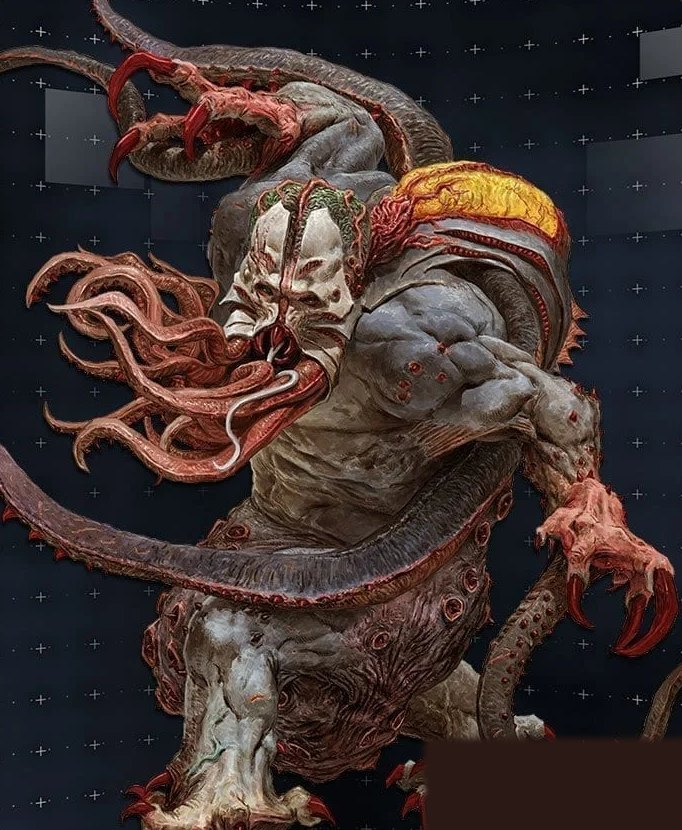
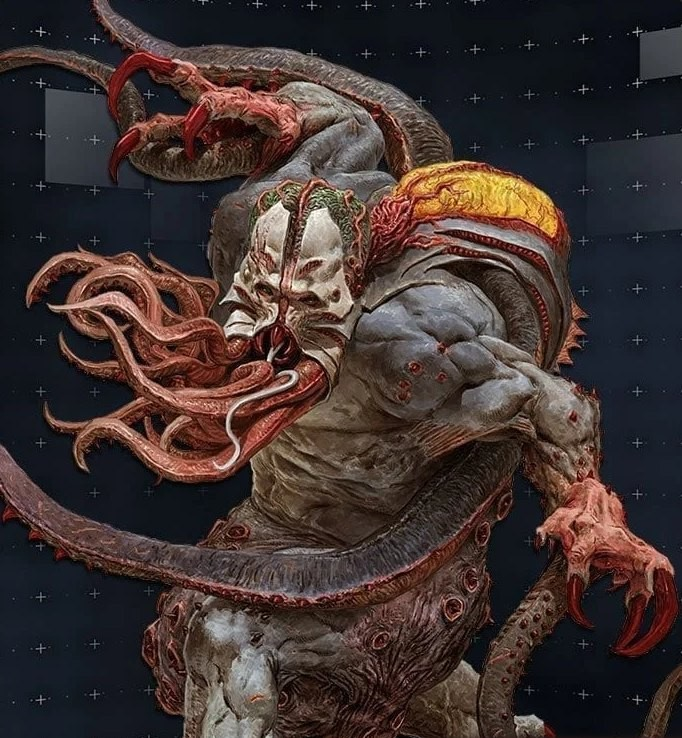
Show only official art in the Invader universe
The Invader carousel and menu still showed the drawn Xenos, and the Biters
had no official picture. The heroes now use the official renders, covering
their panel like the Western heroes, and the Biters use their picture
restored from the French printed card (reduced to 682 px, 256 colours,
143 KB). The Tank render loses its bottom rows, where the rubbed-out logo
left a brown patch.

The 29 drawn Invader illustrations nothing uses any more are deleted, and
the credits (About screen in the 10 languages, README) now name only the
Invader card frames as original.

Lint, typecheck and the 150 tests pass; carousel and menu checked in the
web preview.

diff --git a/src/components/zombie-art.tsx b/src/components/zombie-art.tsx
@@ -229,10 +229,10 @@ const INVADER_EDDIE_ART = {
 /*
  * The pictures of the Invader cards: the official Zombicide Xeno renders (zombicide.com, cut inside their frame, the
  * logo rubbed out) or, for the Xenos the site has no render of, the art of the printed card cut to the picture. They are
- * padded to the shape of the picture window of a card (a Xeno one is portrait, an Abomination one landscape). A subject
- * with no entry here (Biters) keeps its drawn illustration.
+ * padded to the shape of the picture window of a card (a Xeno one is portrait, an Abomination one landscape).
  */
 const INVADER_XENO_ART = {
+  biter: require('../../assets/invader/zombies/biter-official.png'), // restored from the French printed card
   worker: require('../../assets/invader/zombies/xeno-worker-official.jpg'),
   tank: require('../../assets/invader/zombies/xeno-tank-official.jpg'),
   hunter: require('../../assets/invader/zombies/xeno-hunter-official.jpg'),
@@ -285,37 +285,10 @@ const INVADER_BLURRED_FILL: Partial<Record<ArtSubject, { scale: number; down: `$
   dimbutcher: { scale: 1.15, down: '5%' },
 };
 
+// The same artwork is used in the carousel and menu.
 const INVADER_ART: Record<InvaderXeno | InvaderAbomination, ImageSourcePropType> = {
-  ...INVADER_EDDIE_ART,
-  worker: require('../../assets/invader/zombies/xeno-worker-cartoon.jpg'),
-  tank: require('../../assets/invader/zombies/xeno-tank-cartoon.jpg'),
-  hunter: require('../../assets/invader/zombies/xeno-hunter-cartoon.jpg'),
-  spoilerAbomination: require('../../assets/invader/abominations/spoiler-abomination-cartoon.jpg'),
-  drillerWorker: require('../../assets/invader/zombies/driller-worker-cartoon.jpg'),
-  drillerTank: require('../../assets/invader/zombies/driller-tank-cartoon.jpg'),
-  drillerHunter: require('../../assets/invader/zombies/driller-hunter-cartoon.jpg'),
-  drillerAbomination: require('../../assets/invader/abominations/driller-abomination-cartoon.jpg'),
-  drillerBlitzer: require('../../assets/invader/zombies/driller-blitzer-cartoon.jpg'),
-  flinger: require('../../assets/invader/zombies/flinger-cartoon.jpg'),
-  seekerWorker: require('../../assets/invader/zombies/seeker-worker-cartoon.jpg'),
-  xenomoth: require('../../assets/invader/zombies/xenomoth-cartoon.jpg'),
-  biter: require('../../assets/invader/zombies/biter-cartoon.jpg'),
-  juggernaut: require('../../assets/invader/abominations/juggernaut-abomination-cartoon.jpg'),
-  babyface: require('../../assets/invader/abominations/babyface-abomination-cartoon.jpg'),
-  buddyBot: require('../../assets/invader/abominations/buddybot-abomination-cartoon.jpg'),
-  irisSentryGun: require('../../assets/invader/abominations/iris-sentry-gun-abomination-cartoon.jpg'),
-  motherInLaw: require('../../assets/invader/abominations/mother-in-law-abomination-cartoon.jpg'),
-  shadow: require('../../assets/invader/abominations/shadow-abomination-cartoon.jpg'),
-  stomper: require('../../assets/invader/abominations/stomper-abomination-cartoon.jpg'),
-  widowmaker: require('../../assets/invader/abominations/widowmaker-abomination-cartoon.jpg'),
-  broodMother: require('../../assets/invader/abominations/brood-mother-abomination-cartoon.jpg'),
-  xeniumHorror: require('../../assets/invader/abominations/xenium-horror-abomination-cartoon.jpg'),
-  thraex: require('../../assets/invader/abominations/thraex-abomination-cartoon.jpg'),
-  gutslug: require('../../assets/invader/abominations/gutslug-abomination-cartoon.jpg'),
-  stepmother: STEPMOTHER_ART,
-  shaila: require('../../assets/invader/abominations/shaila-abomination-cartoon.jpg'),
-  dimbutcher: require('../../assets/invader/abominations/dimbutcher-abomination-cartoon.jpg'),
-  synkrasis: require('../../assets/invader/abominations/synkrasis-cartoon.jpg'),
+  ...INVADER_XENO_ART,
+  ...INVADER_ABOMINATION_ART,
 };
 
 const WESTERN_HEROES: Record<Exclude<WesternSubject, WesternAbomination>, ImageSourcePropType> = {
@@ -455,6 +428,8 @@ export function ZombieFigure({
   const source = isWesternBoss(subject) ? WESTERN_WINDOWS[subject].source : ART[subject];
   // The Western heroes are cut for their panel: cover, whatever its shape.
   if ((isWesternBoss(subject) || subject in WESTERN_HEROES) && anchor !== 'full') return <Image source={source} style={styles.fullFigure} resizeMode="cover" />;
+  // The official Invader pictures are framed renders, not cut-outs: they cover their panel too (carousel, menu).
+  if (subject in INVADER_OFFICIAL && anchor !== 'full' && anchor !== 'fill') return <Image source={source} style={styles.fullFigure} resizeMode="cover" />;
   if (anchor === 'fill') {
     // The face of an Invader card: its official picture covers the window, which spans the whole card under the title.
     const official = INVADER_OFFICIAL[subject];

diff --git a/src/i18n/uk.ts b/src/i18n/uk.ts
@@ -300,7 +300,7 @@ export const uk: Record<TranslationKey, string> = {
   'about.title': 'Про застосунок',
   'about.version': 'Версія {v}',
   'about.disclaimer': 'Фанатський неофіційний проєкт. Zombicide — торговельна марка CMON Global Limited; застосунок не пов’язаний із CMON і не схвалений нею. Вам потрібен власний примірник гри: застосунок замінює лише колоду появи зомбі.',
-  'about.artwork': 'Ілюстрації всесвіту Western і офіційні ілюстрації Invader (Xenos, Abominations, сорочка карт) © CMON Global Limited, використані в цьому некомерційному фанатському застосунку. Ілюстрації Modern і Fantasy, рамки карт Invader і Biters з Invader оригінальні.',
+  'about.artwork': 'Ілюстрації всесвіту Western і офіційні ілюстрації Invader (Xenos, Abominations, сорочка карт) © CMON Global Limited, використані в цьому некомерційному фанатському застосунку. Ілюстрації Modern і Fantasy та рамки карт Invader оригінальні.',
   'about.privacy': 'Політика конфіденційності',
   'about.privacyDetail': 'Особисті дані не збираються.',
   'about.report': 'Повідомити про помилку',

diff --git a/src/i18n/ru.ts b/src/i18n/ru.ts
@@ -302,7 +302,7 @@ export const ru: Record<TranslationKey, string> = {
   'about.title': 'О приложении',
   'about.version': 'Версия {v}',
   'about.disclaimer': 'Неофициальное фанатское приложение. Zombicide — товарный знак CMON Global Limited; приложение не связано с CMON и не одобрено ею. Нужна своя копия игры: приложение заменяет только колоду зомби.',
-  'about.artwork': 'Иллюстрации вселенной Western и официальные иллюстрации Invader (Xenos, Abominations, рубашка карт) © CMON Global Limited, использованы в этом некоммерческом фанатском приложении. Иллюстрации Modern и Fantasy, рамки карт Invader и Biters из Invader оригинальные.',
+  'about.artwork': 'Иллюстрации вселенной Western и официальные иллюстрации Invader (Xenos, Abominations, рубашка карт) © CMON Global Limited, использованы в этом некоммерческом фанатском приложении. Иллюстрации Modern и Fantasy и рамки карт Invader оригинальные.',
   'about.privacy': 'Политика конфиденциальности',
   'about.privacyDetail': 'Персональные данные не собираются.',
   'about.report': 'Сообщить об ошибке',

diff --git a/src/i18n/es.ts b/src/i18n/es.ts
@@ -300,7 +300,7 @@ export const es: Record<TranslationKey, string> = {
   'about.title': 'Acerca de',
   'about.version': 'Versión {v}',
   'about.disclaimer': 'Aplicación de fans, no oficial. Zombicide es una marca de CMON Global Limited; esta aplicación no está afiliada a CMON ni cuenta con su aprobación. Necesitas tu propia copia del juego: la aplicación solo sustituye el mazo de zombis.',
-  'about.artwork': 'Ilustraciones del universo Western e ilustraciones oficiales de Invader (Xenos, Abominaciones, reverso de las cartas) © CMON Global Limited, usadas en esta aplicación de fans sin ánimo de lucro. Las ilustraciones de Modern y Fantasy, los marcos de las cartas de Invader y los Biters de Invader son originales.',
+  'about.artwork': 'Ilustraciones del universo Western e ilustraciones oficiales de Invader (Xenos, Abominaciones, reverso de las cartas) © CMON Global Limited, usadas en esta aplicación de fans sin ánimo de lucro. Las ilustraciones de Modern y Fantasy y los marcos de las cartas de Invader son originales.',
   'about.privacy': 'Política de privacidad',
   'about.privacyDetail': 'No se recoge ningún dato personal.',
   'about.report': 'Informar de un error',

diff --git a/src/i18n/de.ts b/src/i18n/de.ts
@@ -300,7 +300,7 @@ export const de: Record<TranslationKey, string> = {
   'about.title': 'Über die App',
   'about.version': 'Version {v}',
   'about.disclaimer': 'Inoffizielle Fan-App. Zombicide ist eine Marke von CMON Global Limited; diese App steht in keiner Verbindung zu CMON und wird nicht von CMON unterstützt. Du brauchst ein eigenes Exemplar des Spiels: Die App ersetzt nur den Zombie-Kartenstapel.',
-  'about.artwork': 'Illustrationen des Western-Universums und offizielle Invader-Illustrationen (Xenos, Abominations, Kartenrückseite) © CMON Global Limited, verwendet in dieser nichtkommerziellen Fan-App. Die Illustrationen von Modern und Fantasy, die Invader-Kartenrahmen und die Invader-Biters sind eigene Werke.',
+  'about.artwork': 'Illustrationen des Western-Universums und offizielle Invader-Illustrationen (Xenos, Abominations, Kartenrückseite) © CMON Global Limited, verwendet in dieser nichtkommerziellen Fan-App. Die Illustrationen von Modern und Fantasy und die Invader-Kartenrahmen sind eigene Werke.',
   'about.privacy': 'Datenschutzerklärung',
   'about.privacyDetail': 'Es werden keine personenbezogenen Daten erhoben.',
   'about.report': 'Fehler melden',

diff --git a/src/i18n/fr.ts b/src/i18n/fr.ts
@@ -298,7 +298,7 @@ export const fr = {
   'about.title': 'À propos',
   'about.version': 'Version {v}',
   'about.disclaimer': 'Application de fan, non officielle. Zombicide est une marque de CMON Global Limited ; cette application n\'est ni affiliée à CMON ni approuvée par CMON. Il vous faut votre propre exemplaire du jeu : l\'application remplace seulement la pioche zombie.',
-  'about.artwork': 'Illustrations de l\'univers Western et illustrations officielles d\'Invader (Xenos, Abominations, dos des cartes) © CMON Global Limited, utilisées dans cette application de fan non commerciale. Les illustrations Modern et Fantasy, les cadres des cartes Invader et les Biters d\'Invader sont originaux.',
+  'about.artwork': 'Illustrations de l\'univers Western et illustrations officielles d\'Invader (Xenos, Abominations, dos des cartes) © CMON Global Limited, utilisées dans cette application de fan non commerciale. Les illustrations Modern et Fantasy et les cadres des cartes Invader sont originaux.',
   'about.privacy': 'Politique de confidentialité',
   'about.privacyDetail': 'Aucune donnée personnelle collectée.',
   'about.report': 'Signaler une erreur',

diff --git a/src/i18n/pt.ts b/src/i18n/pt.ts
@@ -300,7 +300,7 @@ export const pt: Record<TranslationKey, string> = {
   'about.title': 'Sobre',
   'about.version': 'Versão {v}',
   'about.disclaimer': 'Aplicativo de fã, não oficial. Zombicide é uma marca da CMON Global Limited; este aplicativo não é afiliado nem endossado pela CMON. Você precisa ter o jogo: o aplicativo só substitui o baralho de zumbis.',
-  'about.artwork': 'Ilustrações do universo Western e ilustrações oficiais de Invader (Xenos, Abominações, verso das cartas) © CMON Global Limited, usadas neste aplicativo de fã sem fins lucrativos. As ilustrações de Modern e Fantasy, as molduras das cartas de Invader e os Biters de Invader são originais.',
+  'about.artwork': 'Ilustrações do universo Western e ilustrações oficiais de Invader (Xenos, Abominações, verso das cartas) © CMON Global Limited, usadas neste aplicativo de fã sem fins lucrativos. As ilustrações de Modern e Fantasy e as molduras das cartas de Invader são originais.',
   'about.privacy': 'Política de privacidade',
   'about.privacyDetail': 'Nenhum dado pessoal é coletado.',
   'about.report': 'Informar um erro',

diff --git a/src/i18n/it.ts b/src/i18n/it.ts
@@ -302,7 +302,7 @@ export const it: Record<TranslationKey, string> = {
   'about.title': 'Informazioni',
   'about.version': 'Versione {v}',
   'about.disclaimer': 'App non ufficiale creata da un fan. Zombicide è un marchio di CMON Global Limited; questa app non è affiliata né approvata da CMON. Serve una copia del gioco: l\'app sostituisce solo il mazzo degli zombi.',
-  'about.artwork': 'Illustrazioni dell\'universo Western e illustrazioni ufficiali di Invader (Xeno, Abomination, dorso delle carte) © CMON Global Limited, usate in questa app di fan senza scopo di lucro. Le illustrazioni di Modern e Fantasy, le cornici delle carte Invader e i Biters di Invader sono originali.',
+  'about.artwork': 'Illustrazioni dell\'universo Western e illustrazioni ufficiali di Invader (Xeno, Abomination, dorso delle carte) © CMON Global Limited, usate in questa app di fan senza scopo di lucro. Le illustrazioni di Modern e Fantasy e le cornici delle carte Invader sono originali.',
   'about.privacy': 'Informativa sulla privacy',
   'about.privacyDetail': 'Nessun dato personale raccolto.',
   'about.report': 'Segnala un errore',

diff --git a/src/i18n/cs.ts b/src/i18n/cs.ts
@@ -303,7 +303,7 @@ export const cs: Record<TranslationKey, string> = {
   'about.title': 'O aplikaci',
   'about.version': 'Verze {v}',
   'about.disclaimer': 'Fanouškovská, neoficiální aplikace. Zombicide je ochranná známka společnosti CMON Global Limited; tato aplikace není s CMON nijak spojena ani jím schválena. Potřebujete vlastní exemplář hry: aplikace nahrazuje pouze balíček zombií.',
-  'about.artwork': 'Ilustrace světa Western a oficiální ilustrace světa Invader (Xenos, Abominations, rub karet) © CMON Global Limited, použité v této nekomerční fanouškovské aplikaci. Ilustrace Modern a Fantasy, rámečky karet Invader a Biters z Invaderu jsou původní.',
+  'about.artwork': 'Ilustrace světa Western a oficiální ilustrace světa Invader (Xenos, Abominations, rub karet) © CMON Global Limited, použité v této nekomerční fanouškovské aplikaci. Ilustrace Modern a Fantasy a rámečky karet Invader jsou původní.',
   'about.privacy': 'Zásady ochrany osobních údajů',
   'about.privacyDetail': 'Nesbíráme žádné osobní údaje.',
   'about.report': 'Nahlásit chybu',

diff --git a/src/i18n/pl.ts b/src/i18n/pl.ts
@@ -302,7 +302,7 @@ export const pl: Record<TranslationKey, string> = {
   'about.title': 'O aplikacji',
   'about.version': 'Wersja {v}',
   'about.disclaimer': 'Nieoficjalna aplikacja fanowska. Zombicide jest znakiem towarowym CMON Global Limited; ta aplikacja nie jest powiązana z CMON ani przez nią zatwierdzona. Potrzebujesz własnego egzemplarza gry: aplikacja zastępuje tylko talię zombie.',
-  'about.artwork': 'Ilustracje uniwersum Western oraz oficjalne ilustracje Invader (Xenos, Abominations, rewers kart) © CMON Global Limited, użyte w tej niekomercyjnej aplikacji fanowskiej. Ilustracje Modern i Fantasy, ramki kart Invader oraz Biters z Invader są oryginalne.',
+  'about.artwork': 'Ilustracje uniwersum Western oraz oficjalne ilustracje Invader (Xenos, Abominations, rewers kart) © CMON Global Limited, użyte w tej niekomercyjnej aplikacji fanowskiej. Ilustracje Modern i Fantasy oraz ramki kart Invader są oryginalne.',
   'about.privacy': 'Polityka prywatności',
   'about.privacyDetail': 'Nie zbieramy żadnych danych osobowych.',
   'about.report': 'Zgłoś błąd',

diff --git a/src/i18n/en.ts b/src/i18n/en.ts
@@ -300,7 +300,7 @@ export const en: Record<TranslationKey, string> = {
   'about.title': 'About',
   'about.version': 'Version {v}',
   'about.disclaimer': 'Fan-made and unofficial. Zombicide is a trademark of CMON Global Limited; this app is not affiliated with or endorsed by CMON. You need your own copy of the game: the app only replaces the zombie spawn deck.',
-  'about.artwork': 'Artwork of the Western universe and official Invader artwork (Xenos, Abominations, card back) © CMON Global Limited, used in this non-commercial fan app. The Modern and Fantasy artwork, the Invader card frames and the Invader Biters are original.',
+  'about.artwork': 'Artwork of the Western universe and official Invader artwork (Xenos, Abominations, card back) © CMON Global Limited, used in this non-commercial fan app. The Modern and Fantasy artwork and the Invader card frames are original.',
   'about.privacy': 'Privacy policy',
   'about.privacyDetail': 'No personal data collected.',
   'about.report': 'Report a mistake',

diff --git a/README.md b/README.md
@@ -65,7 +65,7 @@ npm run lint
 
 Fan-made and unofficial. Zombicide is a trademark of CMON Global Limited; this app is not affiliated with or endorsed by CMON. Card counts and terms are transcribed from the published games for players who own them.
 
-The Western artwork (`assets/western/`: zombies, Abominations, card back) is cropped from the official Zombicide: Undead or Alive and promo artwork and from scans of the printed cards (Tabletop Simulator mod). The Invader Xeno and Abomination artwork and card back (`assets/invader/`) come from the official renders on zombicide.com, from CMON pack preview illustrations (Iron Maiden Eddies, Stepmother) and from scans or photos of the printed cards (Seeker Workers, Xenomoths, Thraex, Gutslug, Shaila, Synkrasis, Dim Butcher). All of it is © CMON Global Limited, used in this non-commercial fan app; the About screen credits it. The Modern and Fantasy artwork, the Invader card frame parts, the Invader Biters and the carousel and menu heroes are original.
+The Western artwork (`assets/western/`: zombies, Abominations, card back) is cropped from the official Zombicide: Undead or Alive and promo artwork and from scans of the printed cards (Tabletop Simulator mod). The Invader Xeno and Abomination artwork, carousel and menu heroes and card back (`assets/invader/`) come from the official renders on zombicide.com, from CMON pack preview illustrations (Iron Maiden Eddies, Stepmother) and from scans or photos of the printed cards (Seeker Workers, Xenomoths, Thraex, Gutslug, Shaila, Synkrasis, Dim Butcher, Biters). All of it is © CMON Global Limited, used in this non-commercial fan app; the About screen credits it. The Modern and Fantasy artwork and the Invader card frame parts are original.
 
 ## License
 
